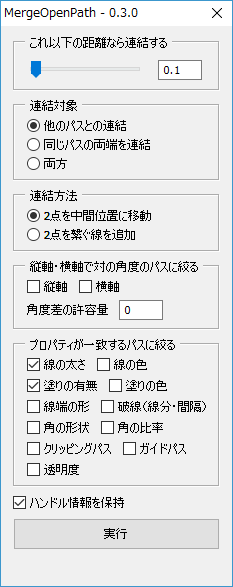
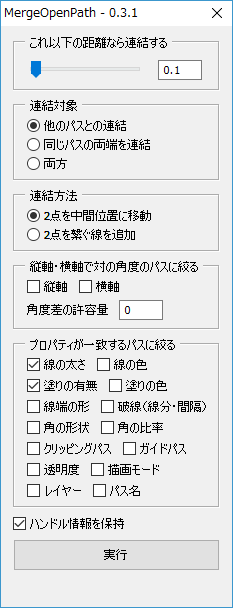
[update]v0.3.1

diff --git a/CHANGELOG.md b/CHANGELOG.md
@@ -1,3 +1,10 @@
+### 0.3.1 - 2018/04/21
+- add    比較できるプロパティを追加
+- update 一つも連結しなかった時ウィンドウを閉じないように変更
+- update リザルト表示を調整
+- fix    実行ボタンを複数回押せてしまう問題を修正
+- fix    起動時のエラー後にウィンドウが表示されたままになっていた問題を修正
+
 ### 0.3.0 - 2018/04/15
 - change メモリリークを解消するためにスクリプトの動作を常駐(palette)から一回だけ(dialog)に変更
 - change リザルトの時間表示をミリ秒に変更

diff --git a/README.md b/README.md
@@ -21,7 +21,7 @@ MergeOpenPath
 連結したいパスを選択してからスクリプトを起動し実行します。
 
 ### 詳しい説明
-[はてなブログ](https://twilyze.hatenablog.jp/entry/merge-open-path-jsx)
+[はてなブログ](https://twilyze.hatenablog.jp/entry/merge-open-path-jsx#設定項目)
 
 
 ## 注意
